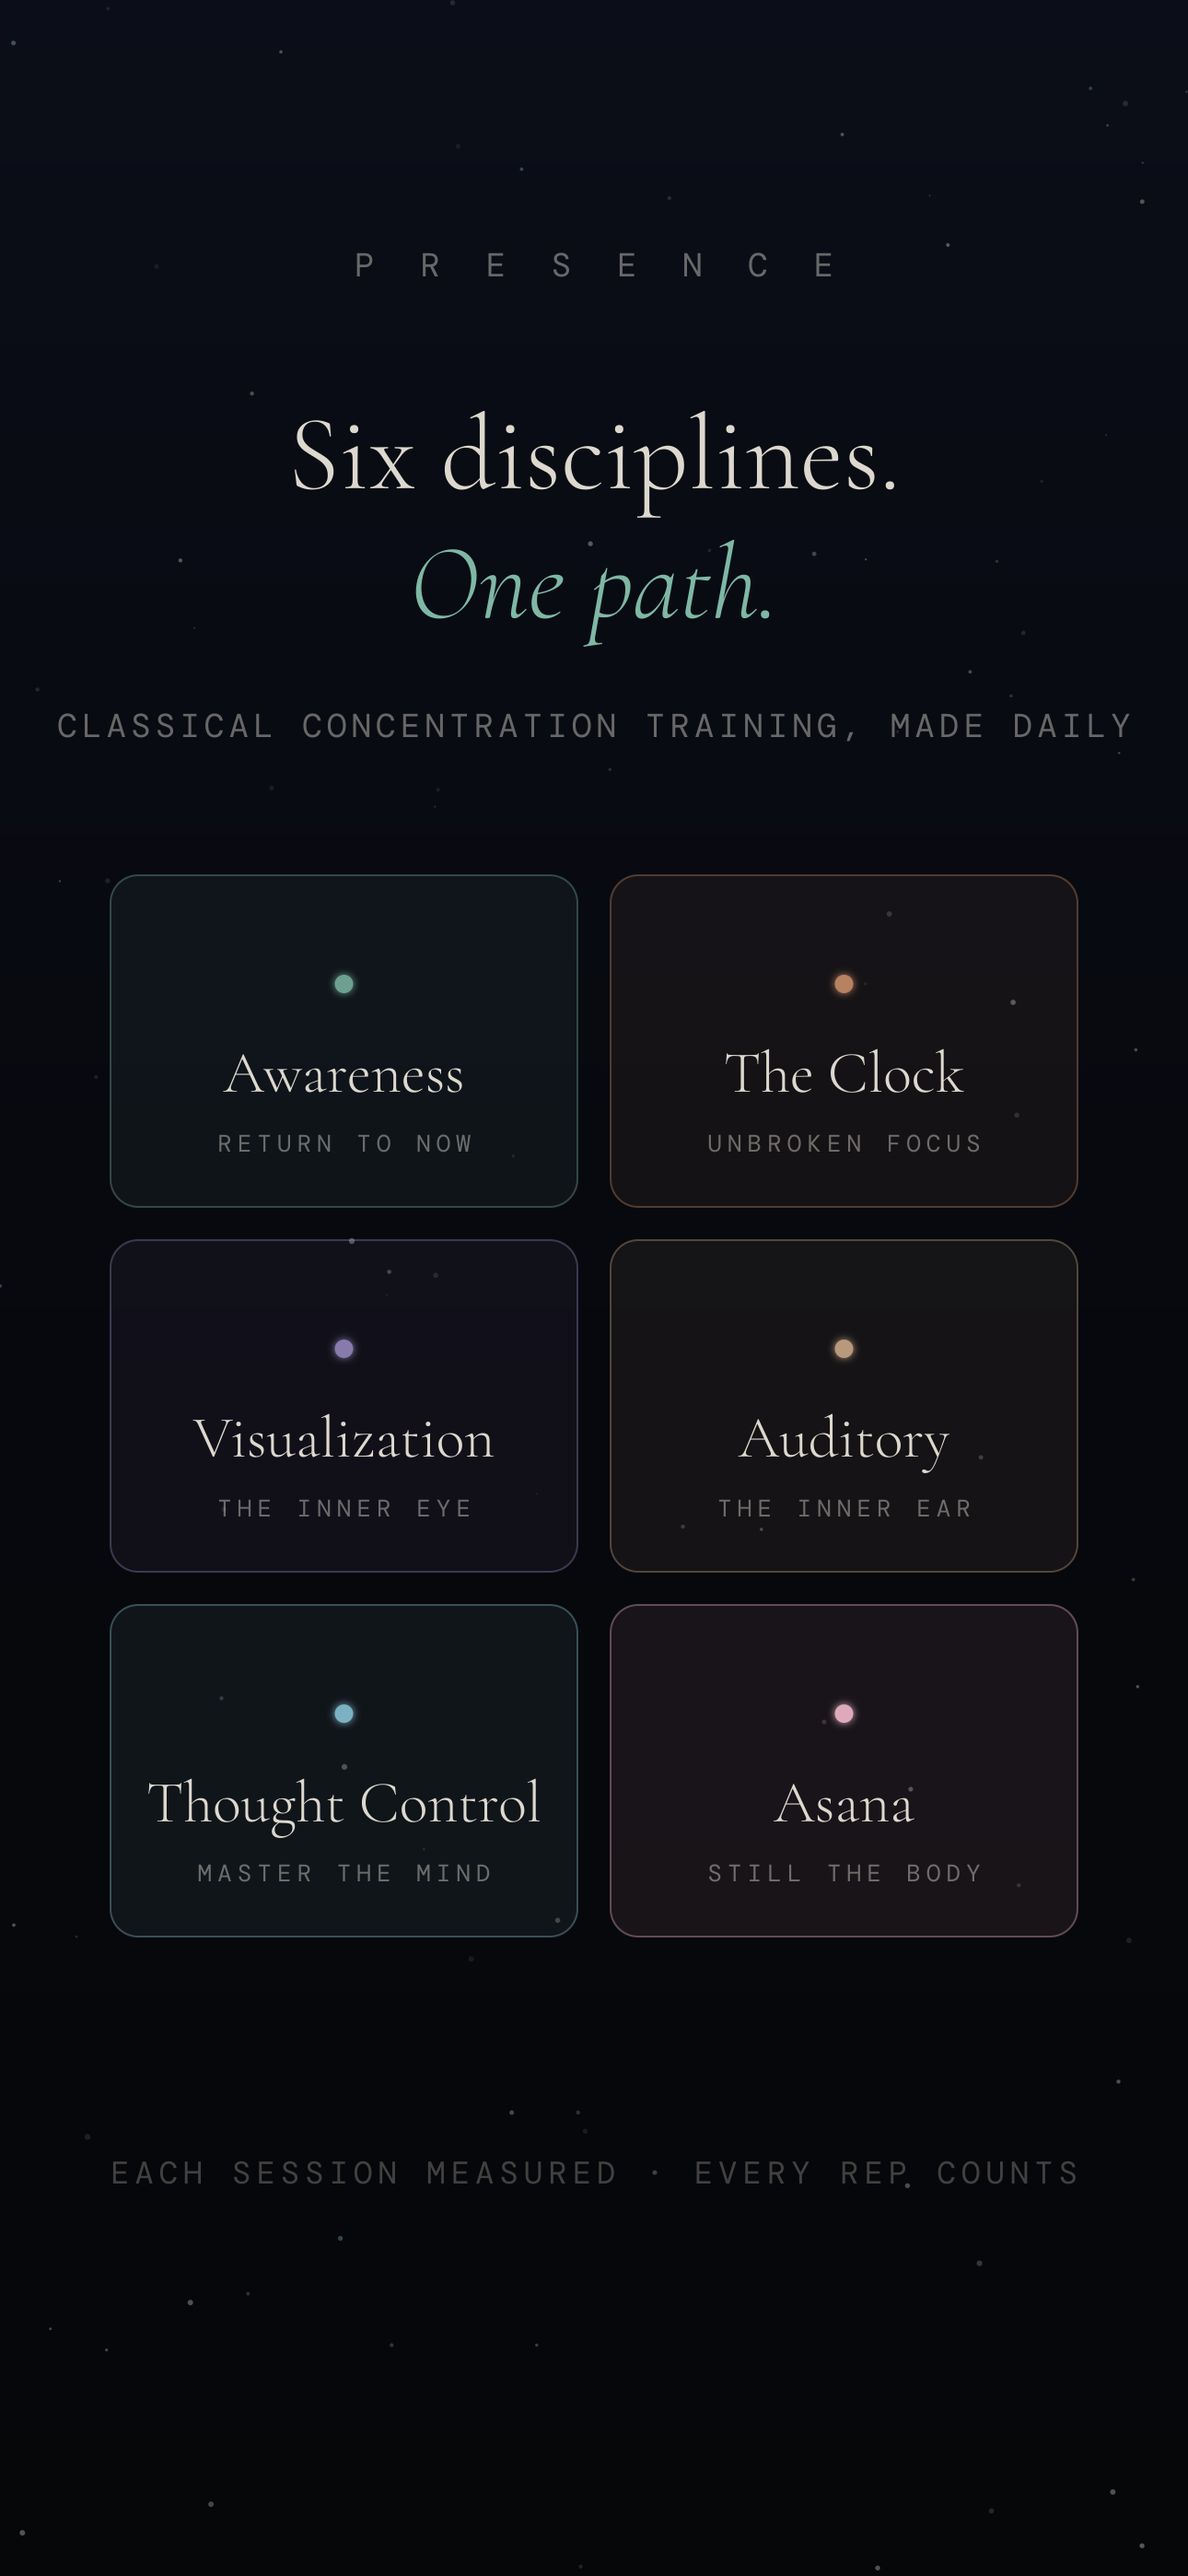
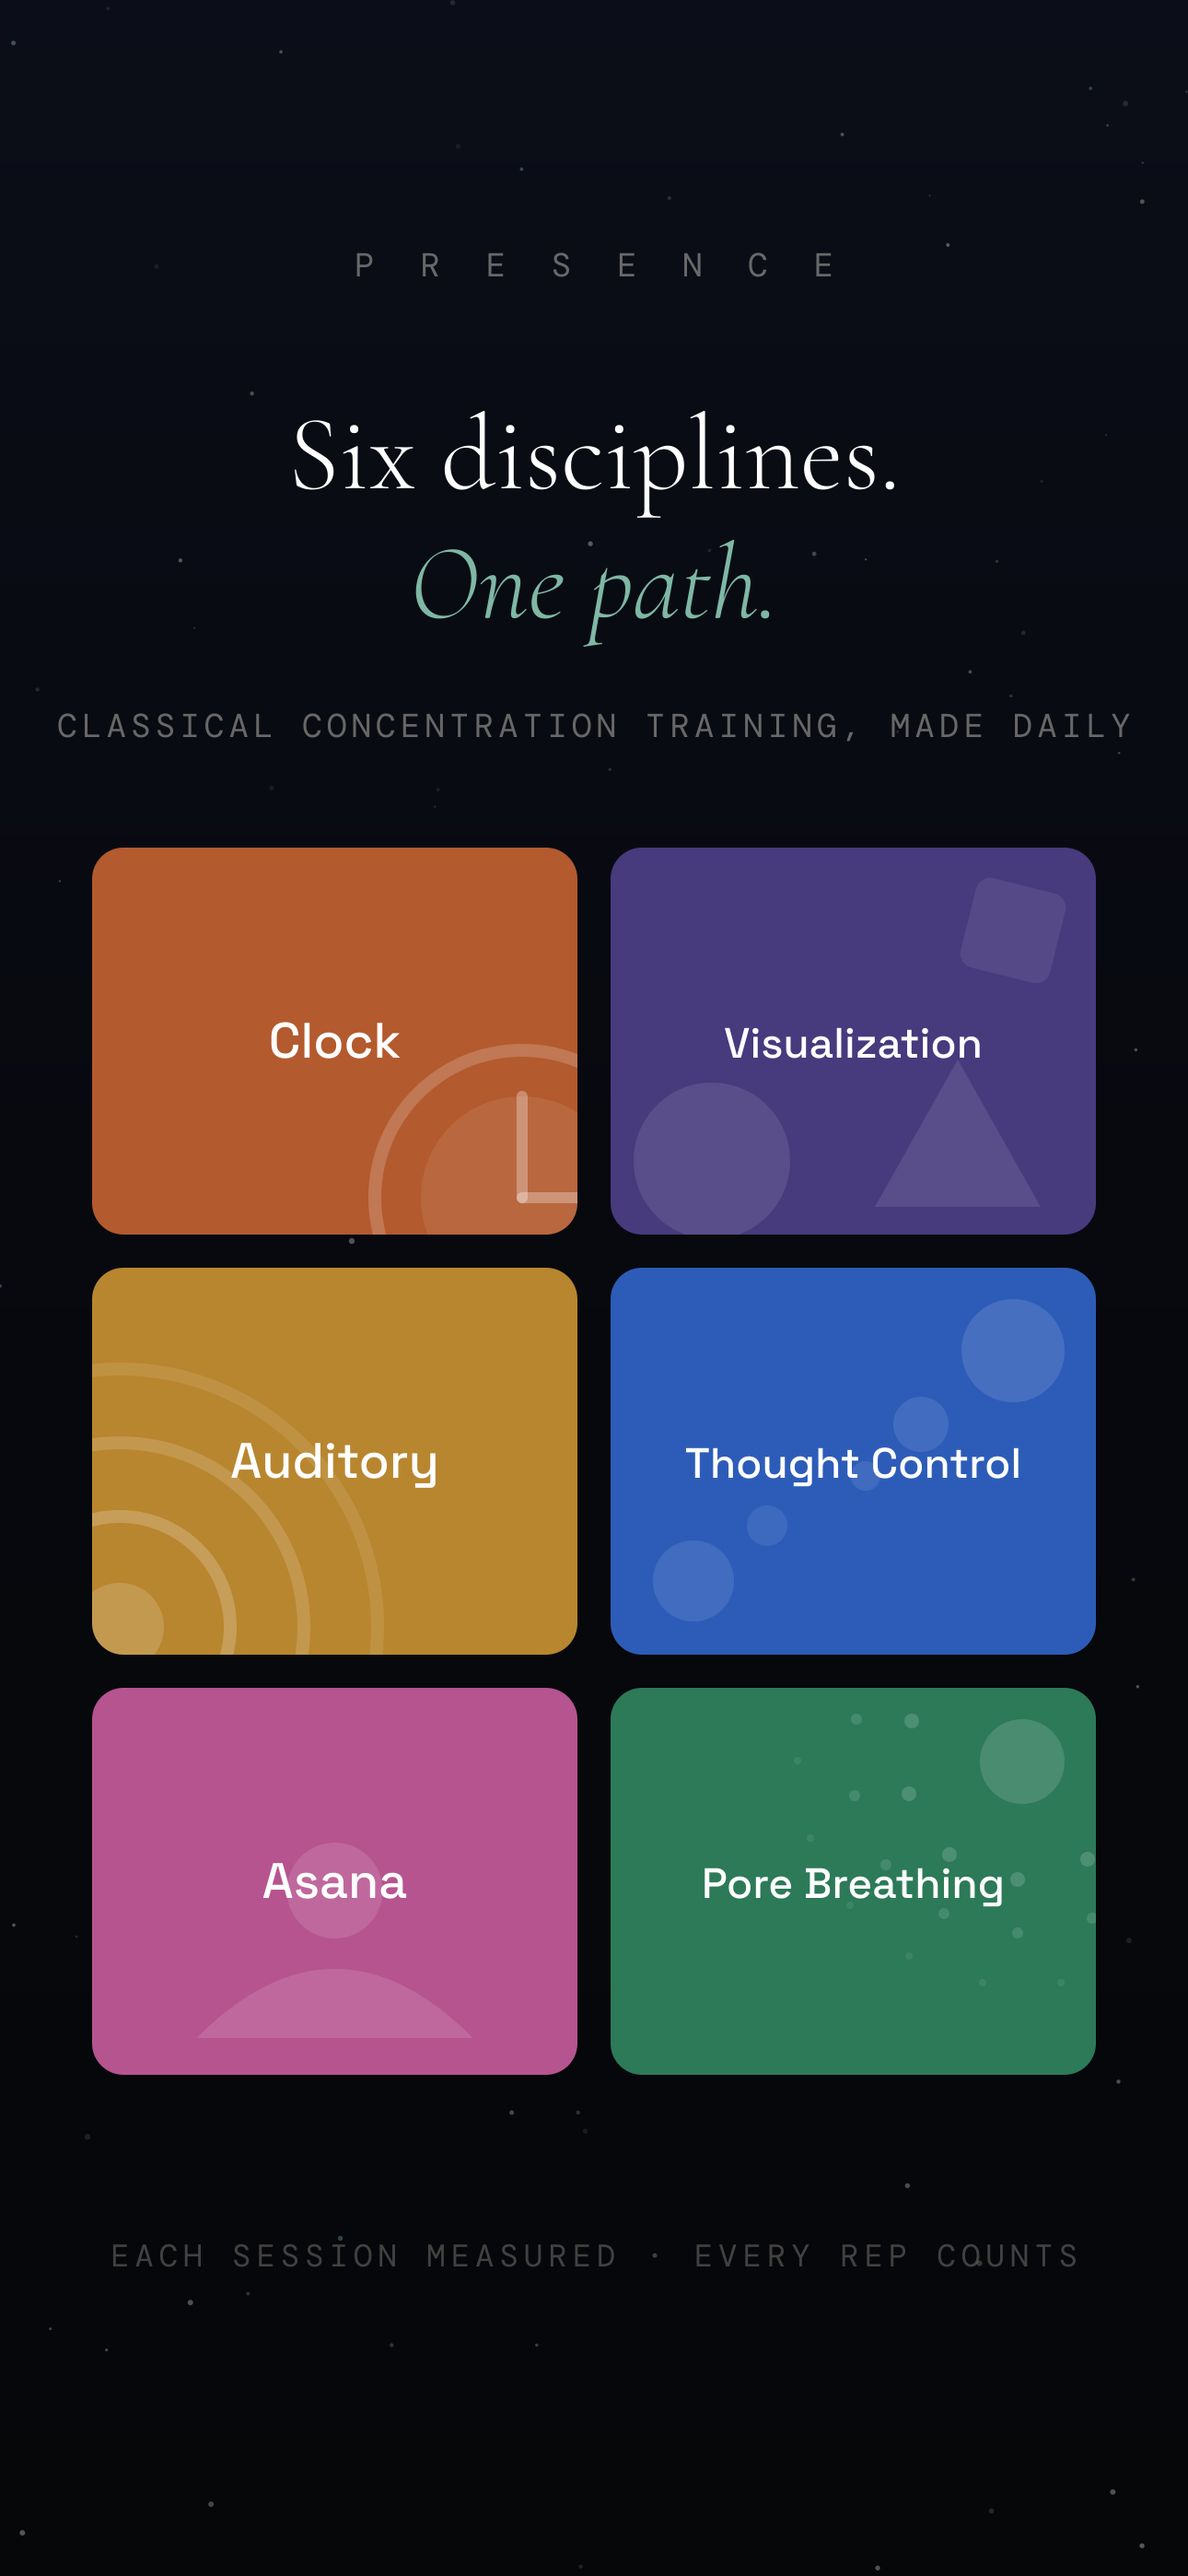
Redesign disciplines card as filled exercise tiles

diff --git a/marketing/generate.js b/marketing/generate.js
@@ -152,34 +152,76 @@ function card1() {
 // ── card 2: six disciplines ──────────────────────────────────────────────────
 
 function card2() {
+  // The app's six concentration exercises as vivid filled tiles, each with
+  // decorative artwork hinting at the practice (Headspace-card style).
   const tiles = [
-    { name: 'Awareness', sub: 'RETURN TO NOW', c: ACCENT },
-    { name: 'The Clock', sub: 'UNBROKEN FOCUS', c: AMBER },
-    { name: 'Visualization', sub: 'THE INNER EYE', c: PURPLE },
-    { name: 'Auditory', sub: 'THE INNER EAR', c: '#d4b08e' },
-    { name: 'Thought Control', sub: 'MASTER THE MIND', c: '#8ecce0' },
-    { name: 'Asana', sub: 'STILL THE BODY', c: ROSE },
+    { name: 'Clock', c: '#b35a2e', deco: 'clock' },
+    { name: 'Visualization', c: '#473a7d', deco: 'shapes' },
+    { name: 'Auditory', c: '#b8862f', deco: 'waves' },
+    { name: 'Thought Control', c: '#2d5cb8', deco: 'bubbles' },
+    { name: 'Asana', c: '#b65490', deco: 'lotus' },
+    { name: 'Pore Breathing', c: '#2c7a58', deco: 'pores' },
   ];
-  const gx = 120, gw = W - gx * 2, gap = 36;
-  const tw = (gw - gap) / 2, th = 360;
+  const gx = 100, gw = W - gx * 2, gap = 36;
+  const tw = (gw - gap) / 2, th = 420;
   let g = '';
   tiles.forEach((t, i) => {
     const col = i % 2, row = (i / 2) | 0;
-    const x = gx + col * (tw + gap), y = 950 + row * (th + gap);
+    const x = gx + col * (tw + gap), y = 920 + row * (th + gap);
+    const clip = `t${i}clip`;
+    let deco = '';
+    if (t.deco === 'clock') {
+      // big clock ring peeking from the corner
+      deco = `<circle cx="${x + tw - 60}" cy="${y + th - 40}" r="160" fill="none" stroke="#ffffff" stroke-opacity="0.18" stroke-width="14"/>
+        <circle cx="${x + tw - 60}" cy="${y + th - 40}" r="110" fill="#ffffff" fill-opacity="0.08"/>
+        <line x1="${x + tw - 60}" y1="${y + th - 40}" x2="${x + tw - 60}" y2="${y + th - 150}" stroke="#ffffff" stroke-opacity="0.3" stroke-width="12" stroke-linecap="round"/>
+        <line x1="${x + tw - 60}" y1="${y + th - 40}" x2="${x + tw + 20}" y2="${y + th - 40}" stroke="#ffffff" stroke-opacity="0.3" stroke-width="12" stroke-linecap="round"/>`;
+    } else if (t.deco === 'shapes') {
+      // the visualization drill's colored shapes, ghosted
+      deco = `<circle cx="${x + 110}" cy="${y + th - 80}" r="85" fill="#ffffff" fill-opacity="0.10"/>
+        <polygon points="${x + tw - 150},${y + th - 190} ${x + tw - 60},${y + th - 30} ${x + tw - 240},${y + th - 30}" fill="#ffffff" fill-opacity="0.10"/>
+        <rect x="${x + tw - 140}" y="${y + 40}" width="100" height="100" rx="16" fill="#ffffff" fill-opacity="0.08" transform="rotate(14 ${x + tw - 90} ${y + 90})"/>`;
+    } else if (t.deco === 'waves') {
+      // sound rings radiating from the corner (clipped to the tile)
+      deco = `<circle cx="${x + 30}" cy="${y + th - 30}" r="48" fill="#ffffff" fill-opacity="0.16"/>`
+        + [120, 200, 280].map((r, k) =>
+        `<circle cx="${x + 30}" cy="${y + th - 30}" r="${r}" fill="none" stroke="#ffffff" stroke-opacity="${0.2 - k * 0.05}" stroke-width="14"/>`).join('');
+    } else if (t.deco === 'bubbles') {
+      // drifting thought bubbles
+      deco = `<circle cx="${x + tw - 90}" cy="${y + 90}" r="56" fill="#ffffff" fill-opacity="0.12"/>
+        <circle cx="${x + tw - 190}" cy="${y + 170}" r="30" fill="#ffffff" fill-opacity="0.10"/>
+        <circle cx="${x + tw - 250}" cy="${y + 226}" r="16" fill="#ffffff" fill-opacity="0.09"/>
+        <circle cx="${x + 90}" cy="${y + th - 80}" r="44" fill="#ffffff" fill-opacity="0.10"/>
+        <circle cx="${x + 170}" cy="${y + th - 140}" r="22" fill="#ffffff" fill-opacity="0.08"/>`;
+    } else if (t.deco === 'lotus') {
+      // seated figure: head over folded base
+      deco = `<circle cx="${x + tw / 2}" cy="${y + th - 200}" r="52" fill="#ffffff" fill-opacity="0.12"/>
+        <path d="M ${x + tw / 2 - 150} ${y + th - 40} Q ${x + tw / 2} ${y + th - 190} ${x + tw / 2 + 150} ${y + th - 40} Z" fill="#ffffff" fill-opacity="0.12"/>`;
+    } else if (t.deco === 'pores') {
+      // light entering through every pore: dotted radiance
+      let dots = '';
+      for (let ring = 1; ring <= 3; ring++) {
+        const rr = 70 + ring * 58, count = 6 + ring * 4;
+        for (let k = 0; k < count; k++) {
+          const a = (k / count) * Math.PI * 2 + ring * 0.35;
+          dots += `<circle cx="${(x + tw - 80 + Math.cos(a) * rr).toFixed(0)}" cy="${(y + 80 + Math.sin(a) * rr).toFixed(0)}" r="${10 - ring * 2}" fill="#ffffff" fill-opacity="${0.2 - ring * 0.04}"/>`;
+        }
+      }
+      deco = `<circle cx="${x + tw - 80}" cy="${y + 80}" r="46" fill="#ffffff" fill-opacity="0.14"/>` + dots;
+    }
     g += `
-    <rect x="${x}" y="${y}" width="${tw}" height="${th}" rx="30" fill="${t.c}" opacity="0.07"/>
-    <rect x="${x}" y="${y}" width="${tw}" height="${th}" rx="30" fill="none" stroke="${t.c}" stroke-opacity="0.34" stroke-width="2"/>
-    <circle cx="${x + tw / 2}" cy="${y + 118}" r="10" fill="${t.c}" opacity="0.85" filter="url(#soft)"/>
-    ${serif(x + tw / 2, y + 235, 64, TEXT, t.name)}
-    ${mono(x + tw / 2, y + 300, 26, MUTED, t.sub, 6)}`;
+    <clipPath id="${clip}"><rect x="${x}" y="${y}" width="${tw}" height="${th}" rx="34"/></clipPath>
+    <rect x="${x}" y="${y}" width="${tw}" height="${th}" rx="34" fill="${t.c}"/>
+    <g clip-path="url(#${clip})">${deco}</g>
+    <text x="${x + tw / 2}" y="${y + th / 2 + 18}" font-family="Space Grotesk" font-weight="500" font-size="${t.name.length > 12 ? 46 : 54}" fill="#ffffff" text-anchor="middle">${t.name}</text>`;
   });
   return shell(`
   ${wordmark(300)}
-  ${serif(W / 2, 530, 116, TEXT, 'Six disciplines.')}
+  ${serif(W / 2, 530, 116, '#ffffff', 'Six disciplines.')}
   ${serif(W / 2, 670, 116, ACCENT, 'One path.', 'middle', 'font-style="italic"')}
   ${mono(W / 2, 800, 36, MUTED, 'CLASSICAL CONCENTRATION TRAINING, MADE DAILY', 5)}
   ${g}
-  ${mono(W / 2, 2280 + 90, 34, FAINT, 'EACH SESSION MEASURED · EVERY REP COUNTS', 6)}
+  ${mono(W / 2, 2370 + 90, 34, FAINT, 'EACH SESSION MEASURED · EVERY REP COUNTS', 6)}
   `, 19);
 }
 
